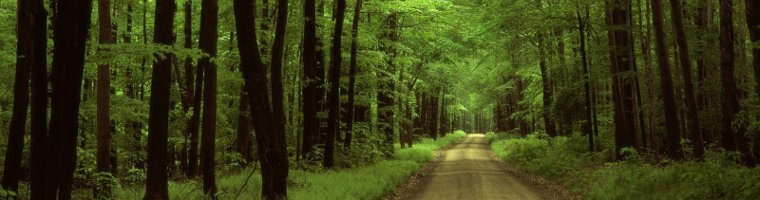
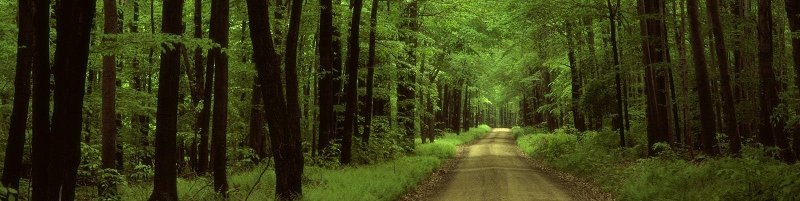
Enlarged a bit the content area.

diff --git a/stylesheets/PixelGreen.css b/stylesheets/PixelGreen.css
@@ -233,7 +233,7 @@ input.button {
 ************************/
 
 #header-content, #content, #footer-content {
-  width: 760px;
+  width: 800px;
 }
 
 /* header */
@@ -318,7 +318,7 @@ input.button {
 /* header photo */
 .headerphoto {
   margin: 0px auto;
-  width: 770px;
+  width: 810px;
   height: 200px;
   padding: 15px 10px 10px 10px;
   background: #FFF url(/images/headerphoto.jpg) no-repeat center;
@@ -340,7 +340,7 @@ input.button {
 /* sidebar */
 #sidebar {
   float: right;
-  width: 30%;
+  width: 28%;
   margin: 0px 0px 10px 0px;
   padding: 0px;
 }
@@ -393,7 +393,7 @@ input.button {
 /* main */
 #main {
   float: left;
-  width: 68%;
+  width: 70%;
   margin: 0px 0px 10px 0px;
   padding: 0px;
 }
@@ -483,7 +483,7 @@ input.button {
 }
 
 #footer-content .col2 {
-  width: 33%;
+  width: 30%;
   padding: 0px 0px 30px 0px;
 }
 
